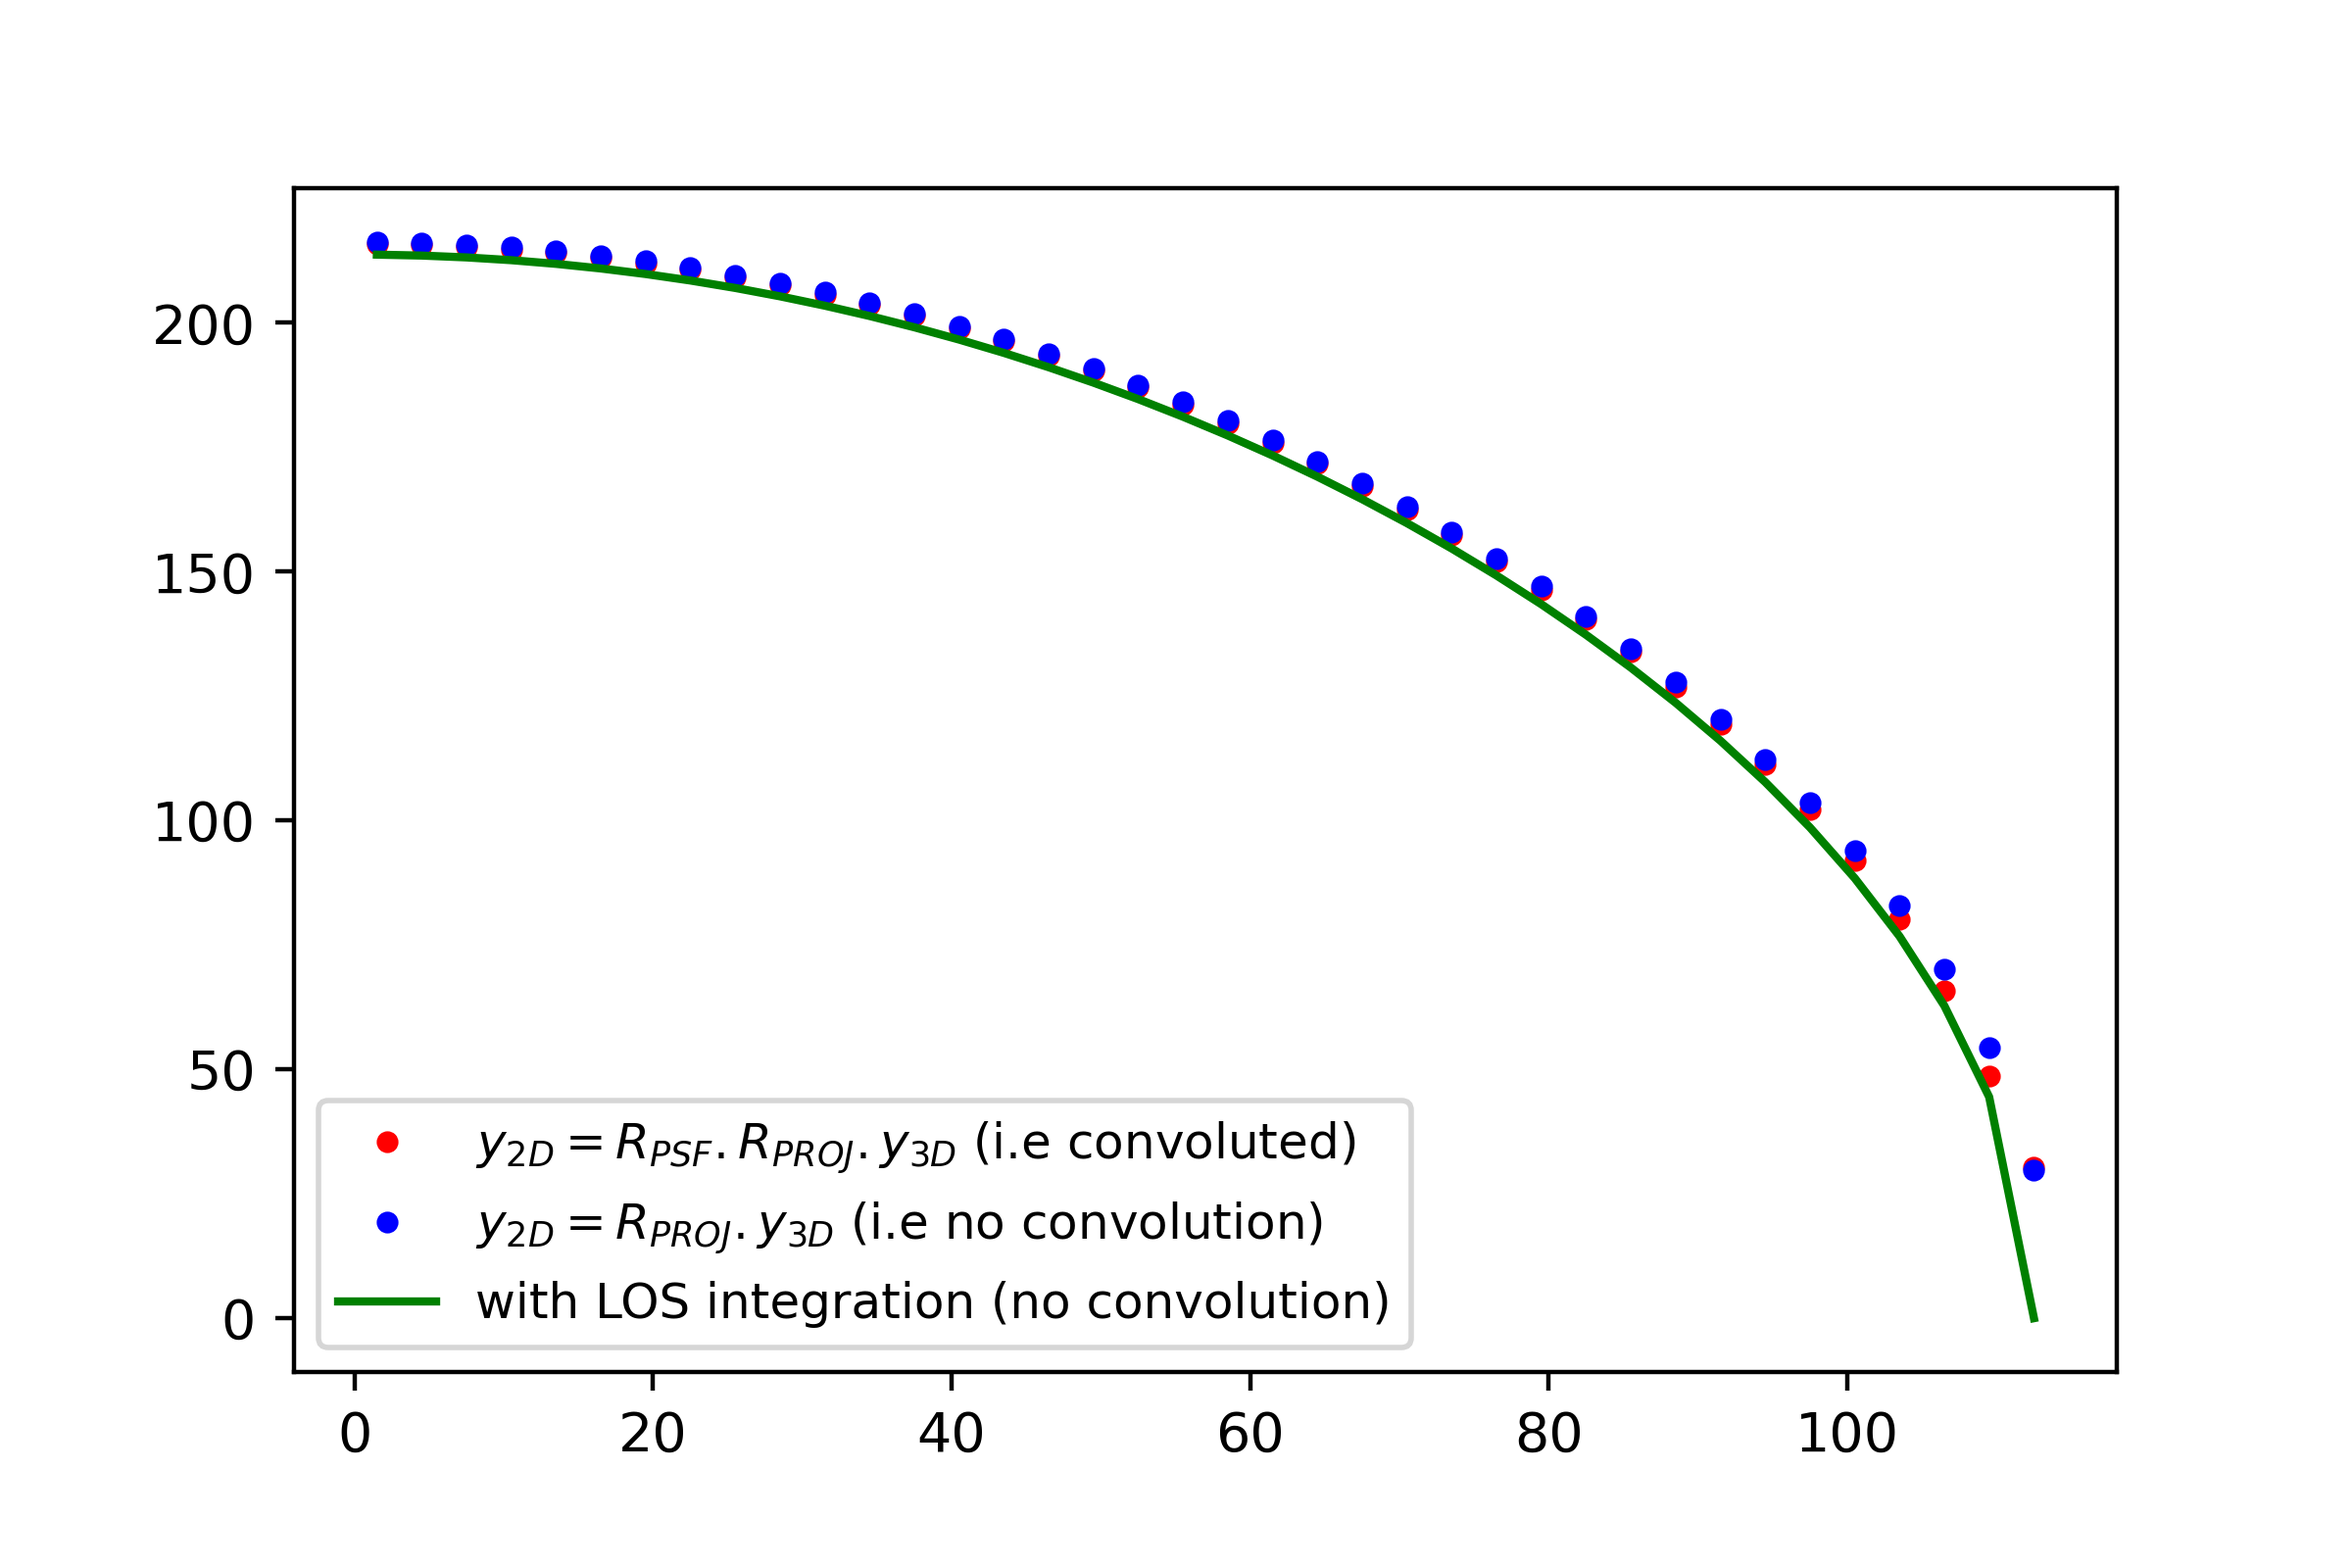
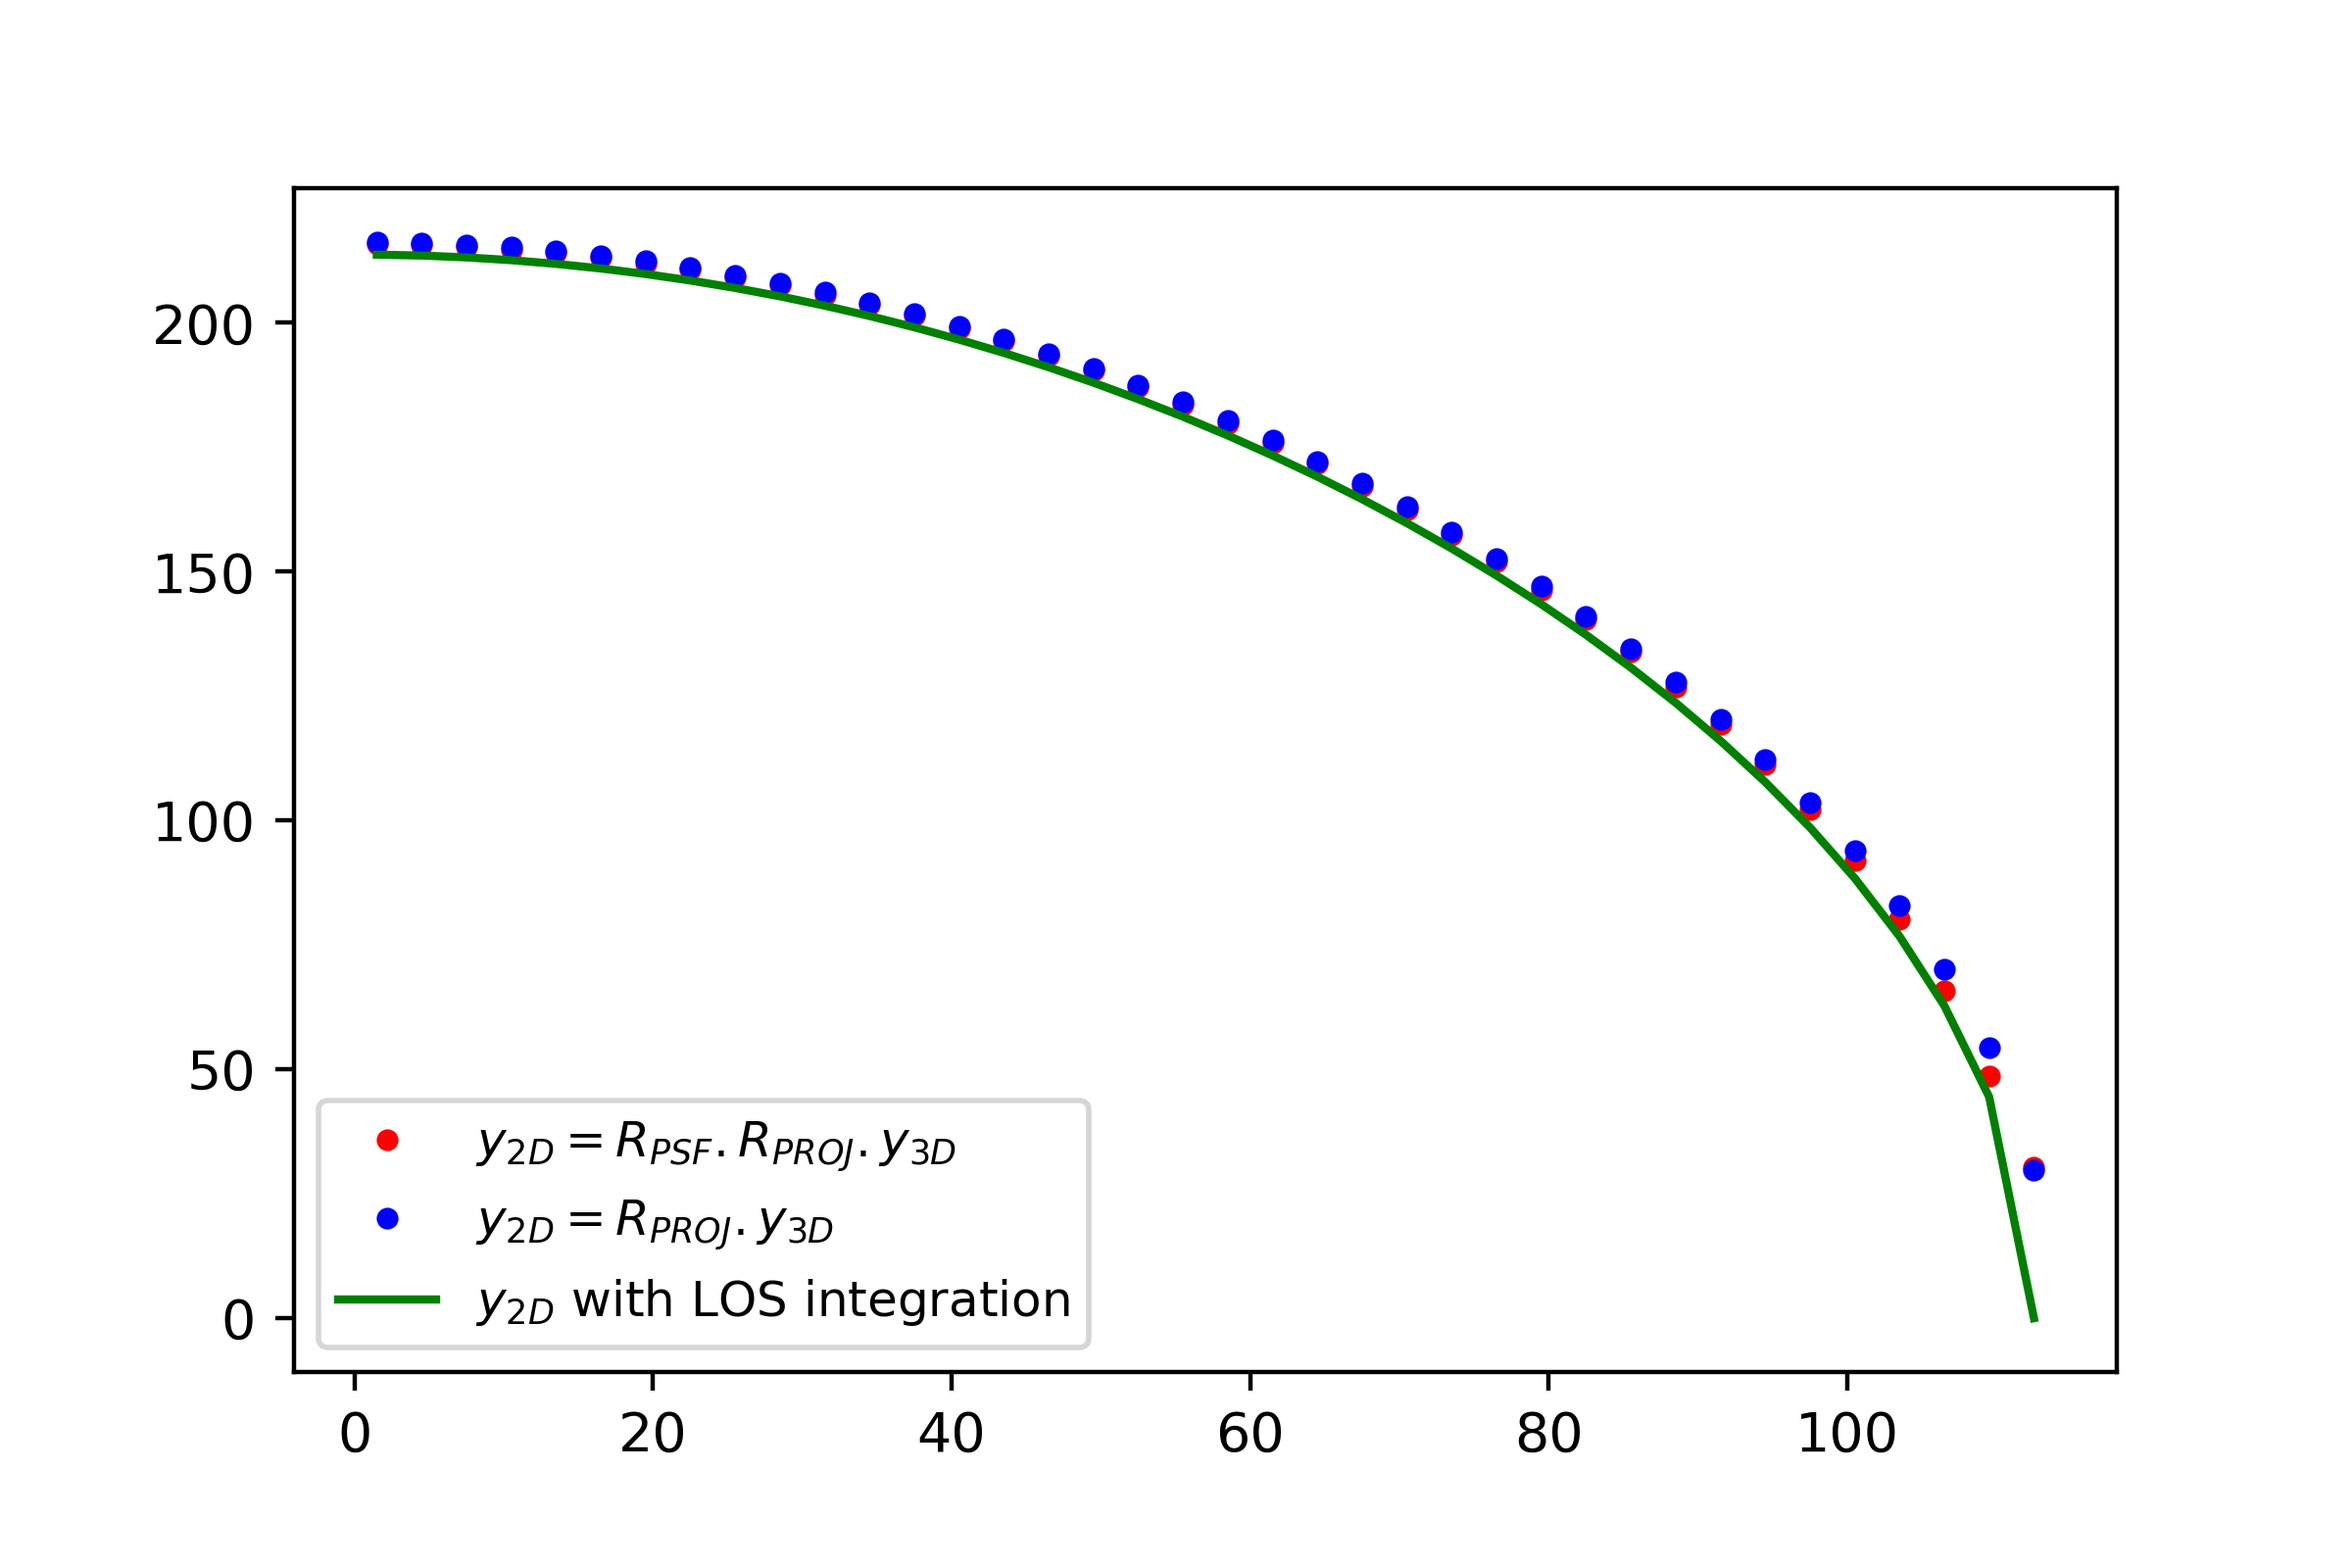
small changes

Changed region(s): [[0.1562, 0.6875, 0.5938, 0.875]]

diff --git a/codes/TestingProjectionAndPSFmatrices.py b/codes/TestingProjectionAndPSFmatrices.py
@@ -50,9 +50,9 @@ R_PROJ_inv = linalg.inv(R_PROJ)
 X = np.matmul(R_PSF, np.matmul(R_PROJ,y_3D))
 Y = np.matmul(R_PROJ,y_3D)
 
-plt.plot(rs,X,'r.',label='$y_{2D}=R_{PSF}.R_{PROJ}.y_{3D}$ (i.e convoluted)')
-plt.plot(rs,Y,'b.',label='$y_{2D}=R_{PROJ}.y_{3D}$ (i.e no convolution)')
-plt.plot(rs[:],y_proj[:],'g',label='with LOS integration (no convolution)')
+plt.plot(rs,X,'r.',label='$y_{2D}=R_{PSF}.R_{PROJ}.y_{3D}$')
+plt.plot(rs,Y,'b.',label='$y_{2D}=R_{PROJ}.y_{3D}$ ')
+plt.plot(rs[:],y_proj[:],'g',label='$y_{2D}$ with LOS integration')
 plt.legend(loc=3, prop={'size': 9})
 plt.savefig("MatrixTest_y2D.png", dpi = 400)
 plt.show()
@@ -60,9 +60,9 @@ plt.show()
 T = np.matmul(R_PROJ_inv,y_proj)
 S = np.matmul(R_PROJ_inv,np.matmul(R_PSF_inv,y_proj))
 
-plt.plot(rs,S,'r.',label='$y_{3D}=R_{PROJ}^{-1}.R_{PSF}^{-1}.y_{2D}$ (convoluted)')
-plt.plot(rs,T,'b.',label='$y_{3D}=R_{PROJ}^{-1}.y_{2D}$ (no convolution)')
-plt.plot(rs[:],y_3D[:],'g',label='Original 3D y model')
+plt.plot(rs,S,'r.',label='$y_{3D}=R_{PROJ}^{-1}.R_{PSF}^{-1}.y_{2D}$ ')
+plt.plot(rs,T,'b.',label='$y_{3D}=R_{PROJ}^{-1}.y_{2D}$ ')
+plt.plot(rs[:],y_3D[:],'g',label='Original $y_{3D}$  model')
 plt.legend(loc=3, prop={'size': 9})
 plt.savefig("MatrixTest_y3D.png", dpi = 400)
 plt.show()

diff --git a/codes/PlottingDeprojected3D_y.py b/codes/PlottingDeprojected3D_y.py
@@ -63,7 +63,7 @@ plt.plot(np.log10(rs[:]),np.log10(ys_3d_deconv[:]),'o' ,label = 'Milca 3D y-prof
 plt.xlabel("Distance from centre of cluster (kpc)" ,fontsize=11)
 plt.ylabel("Average 3D y profile ($10^{-6}$)" ,fontsize=11)
 plt.title("3D y profile after deconvolution and deprojection", fontsize=13)
-plt.legend()
+plt.legend(loc=3)
 plt.savefig("3D y with PSF.png", dpi = 1200)
 plt.show()
 
